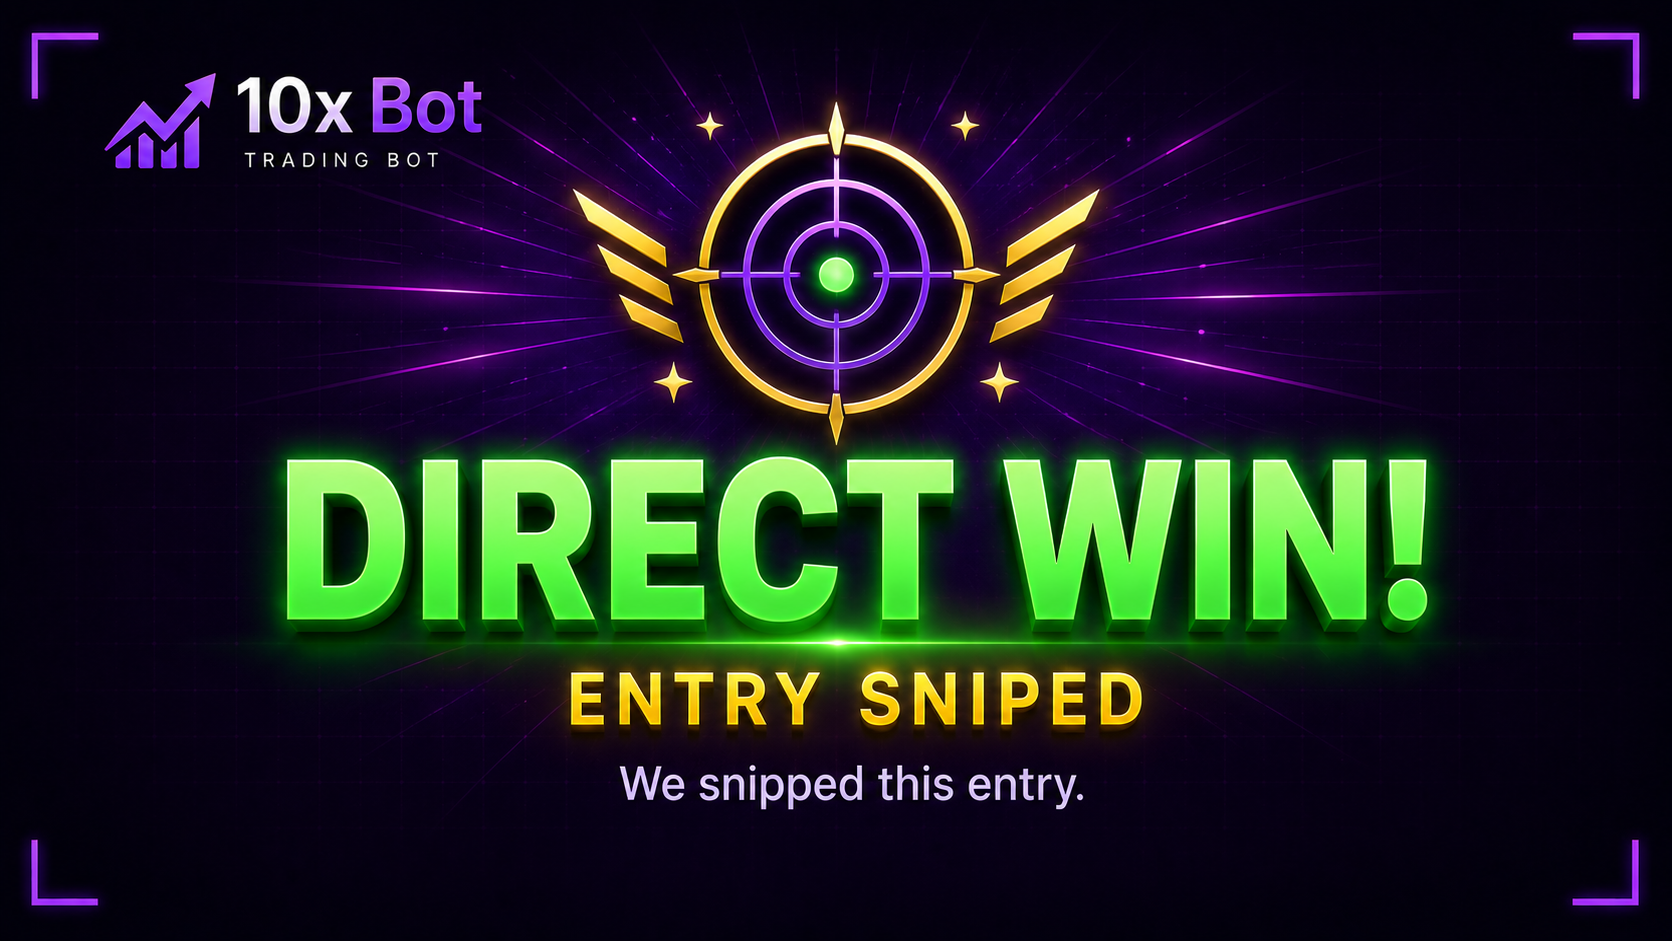
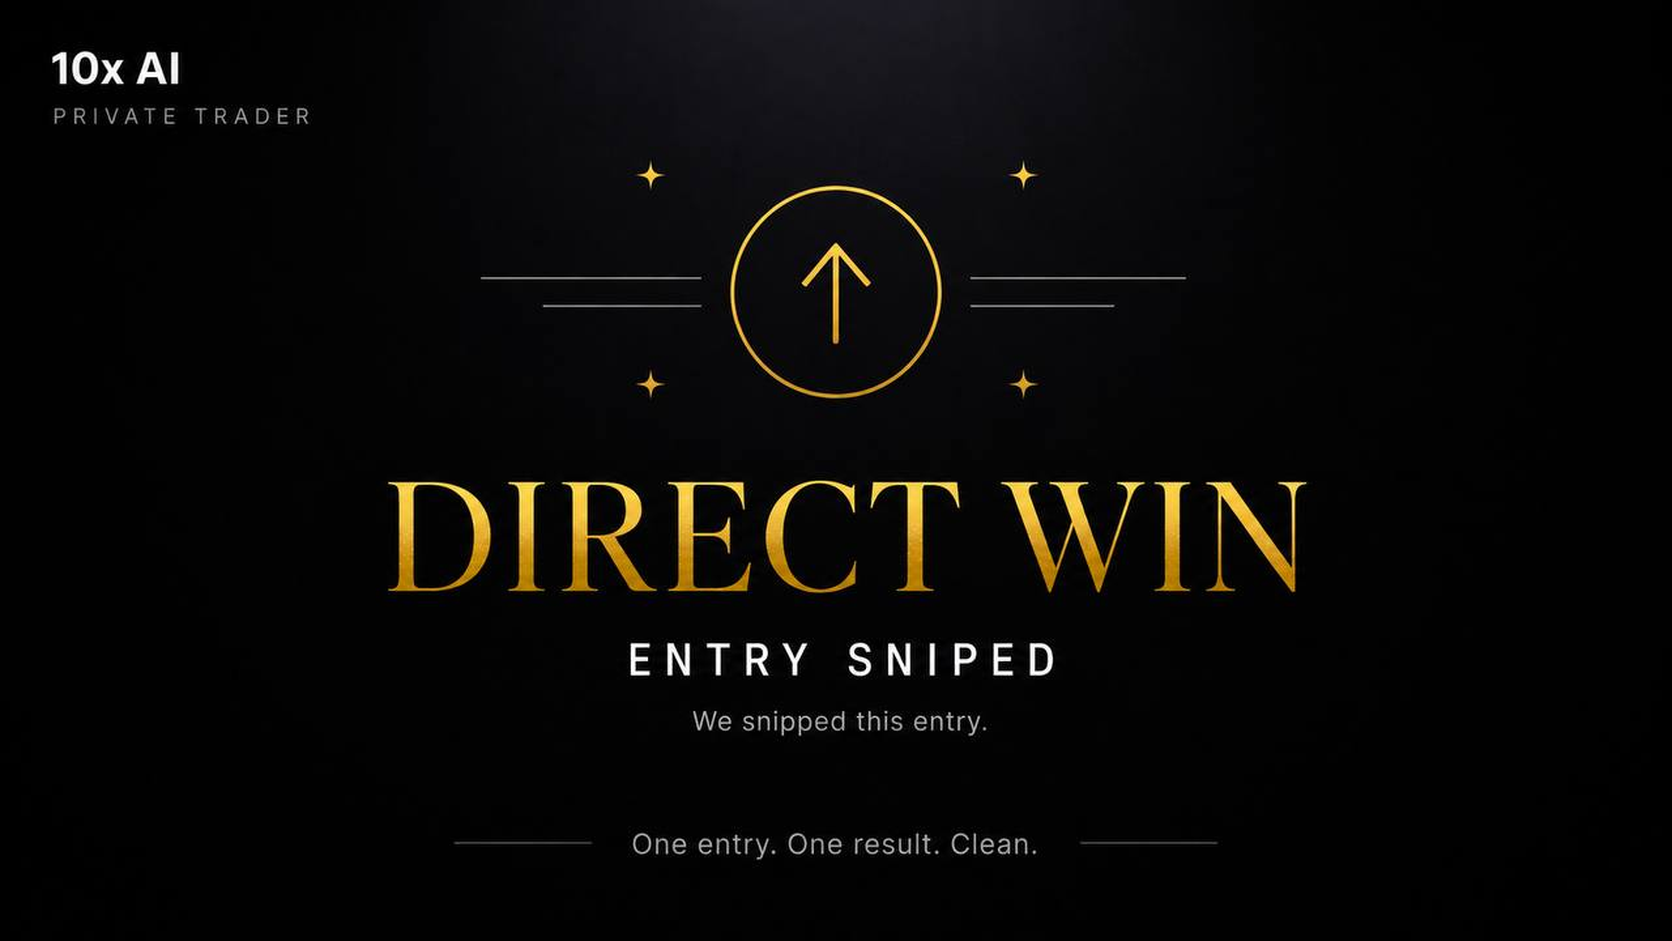
directive: bot stability & result integrity (no stalls, no double trades, real settlement); rebranded bot graphics

diff --git a/DIRECTIVE-STABILITY-RESULT-INTEGRITY.md b/DIRECTIVE-STABILITY-RESULT-INTEGRITY.md
@@ -1,0 +1,64 @@
+# Directive — Bot Stability & Result Integrity Overhaul
+
+## Objective
+Make iqbot-v3 stable and truthful in three dimensions:
+1. **No random stalls** — the bot must never hang silently on SDK calls or UI flows.
+2. **No double trades** — a martingale chain must never place two positions for the same round, and recovery must never race the live chain.
+3. **Result integrity** — every WIN/LOSS/TIE the bot reports to a user must be grounded in the real IQ Option settlement, never a guess, never a timeout-as-loss, never a candle heuristic when a real result exists.
+
+Scope: AI Trading (bot.ts runMartingale), Auto Trading (trade.ts runMartingaleCore), Signals result tracking (bot.ts ~7916). All changes must be made to **both src/ and dist/** where the product runs from dist.
+
+## Part 1 — Settlement Law (all three products)
+1. A trade result is FINAL only when the SDK settles it: WIN / LOSS / TIE / NO_FILL (no fill). Nothing else is a result.
+2. **TIMEOUT is internal, never a result.** If `waitForResult` misses the settlement:
+   - Query IQ Option position history for the position (`external_id` / pair / direction / amount / timeframe window).
+   - If found: settle with the REAL pnl. If the real result was WIN, the chain must NOT have doubled (a false LOSS already doubled must be corrected in the session total and reported).
+   - If NOT found: it is a NO_FILL — same-stake retry of the same round, never double.
+3. Never invent LOSS to keep a chain moving. A chain may stall awaiting settlement but must never proceed on an unknown result.
+4. TIE = stake refunded. Retry same stake, same round, do not consume a gale round, do not double.
+5. `settle()` (TradeCore) is the single source of truth for settlement; GaleEngine doubles ONLY on a settled LOSS.
+
+## Part 2 — No Double Trades
+1. **Recovery vs live chain race:** the periodic recovery SELECT (dist/tradeRecovery.js) must keep the expiry-aware window (`timeframe_sec + 60s` grace) so it never picks a trade the live chain is about to settle. Verify it holds for ALL timeframes including 5m and 2m.
+2. **Boot-time gale scan vs periodic recovery:** both resume gale sessions. Enforce a single-flight rule: mark the gale session `resuming` BEFORE either path calls runMartingale, and skip any row already `resuming`/`active` with a live in-flight trade (pre-resume liveCheck + resumedUsers set).
+3. **No duplicate round on ERROR:** when a buy fails with `market is closed`, `unknown pair`, `no instrument available`, `no balance found`, `authentication is failed`, `profit rate change` (4117) or WebSocket-closed — NO trade was placed. Retry same round same amount (max 2 retries), then abort the chain with a clear message. Never double on a failed buy.
+4. `runMartingaleCore` must return a structured outcome (win/loss/tie/no_fill + real error) so callers never guess.
+
+## Part 3 — No Random Stalls
+1. **Every SDK call needs its own timeout.** Known gaps: trade-core.ts, gale-engine.ts, trade.ts currently have ZERO withTimeout wrappers (auto-trading.ts has 9). Wrap:
+   - `balances()` / `getBalances()` — 10s
+   - `positions()` / position history — 10s
+   - `blitzOptions()` / `refreshActives()` — 15s
+   - `candles()` / `getCandles()` — 15s
+   - any buy — 20s
+2. **Every scan/read path needs a total budget.** If a path performs N SDK calls, cap the whole path (e.g. 35s Promise.race) and fall back to cached/neutral state — the UI must always respond.
+3. **No silent empty catch blocks in trading paths.** Every catch must log (logger.warn/error) with a tag so stalls are diagnosable. `catch {}` is forbidden in runMartingale, runMartingaleCore, tradeRecovery, signal tracking, and prep countdown code.
+4. **Busy locks on all setInterval loops** doing async SDK work (signal tracking has trackingBusy — verify the same pattern exists for every background loop that calls SDK).
+5. **Prep countdown must never appear frozen:** the fire-and-forget `void (async () => {})()` countdown must have a cancellation Map (prepCountdowns), log failures, and be cancelled when the tracking loop takes over the card.
+6. **SDK pool:** `sdkPool.get()` must return a healthy SDK — dead pinned sockets must be rebuilt (never handed out), and `withTimeout` on the pre-trade health ping so a dead WS costs 2s, not a chain timeout.
+
+## Part 4 — Signals Result Accuracy
+1. Signal results are currently candle-based (open vs close of the trade-window candle). Keep the trade-window anchoring (expiry − timeframe → expiry) — that part is correct.
+2. **Never mark a signal LOST when market data is missing** — that already exists (no_data → neutral "expired" message, no recovery round). Keep it.
+3. If a real IQ Option settlement is obtainable for a signal (user's own position on the pair/window is detectable via position history), prefer the real settlement over the candle heuristic. Otherwise keep candle-based as the documented fallback and never present it as an IQ Option settlement.
+4. Signal recovery rounds must respect the same settlement law as Part 1 — a recovery round is only "lost" when its own window settles against direction.
+
+## Verification Checklist (run before considering done)
+- [ ] No `catch {}` empty blocks in the trading paths listed above.
+- [ ] Every SDK call in the trading paths has a timeout (grep `withTimeout` in trade-core.ts, gale-engine.ts, trade.ts, signals tracking).
+- [ ] Recovery SELECT still refuses trades inside their expiry window (timeframe_sec + 60s).
+- [ ] Boot scan and periodic recovery cannot both resume the same gale (single-flight on gale_sessions.status).
+- [ ] A simulated profit-rate-change (4117) mid-chain does not double the stake.
+- [ ] A simulated WebSocket death mid-chain retries same-stake, never doubles.
+- [ ] A missed settlement is resolved from position history; if the real result was WIN the session total is corrected and no gale was burned.
+- [ ] `npx tsc --noEmit` clean for changed modules; `node --check` clean on changed dist files.
+- [ ] PM2 restart with 0 in-flight trades; boot log free of SyntaxError/Cannot-find.
+
+## Do NOT touch
+- No marketing content, no template text changes, no UI copy changes.
+- No changes to analysis engines, signal generation frequency, or confidence displays.
+- No changes to smart flow, check-in, admin portal, or menus.
+- No changes to affiliate/approval logic.
+
+## Delivery
+Implement on a feature branch, push, and report back with the diff summary + verification results. Keep changes surgical — this directive is about correctness and stability, not features.
